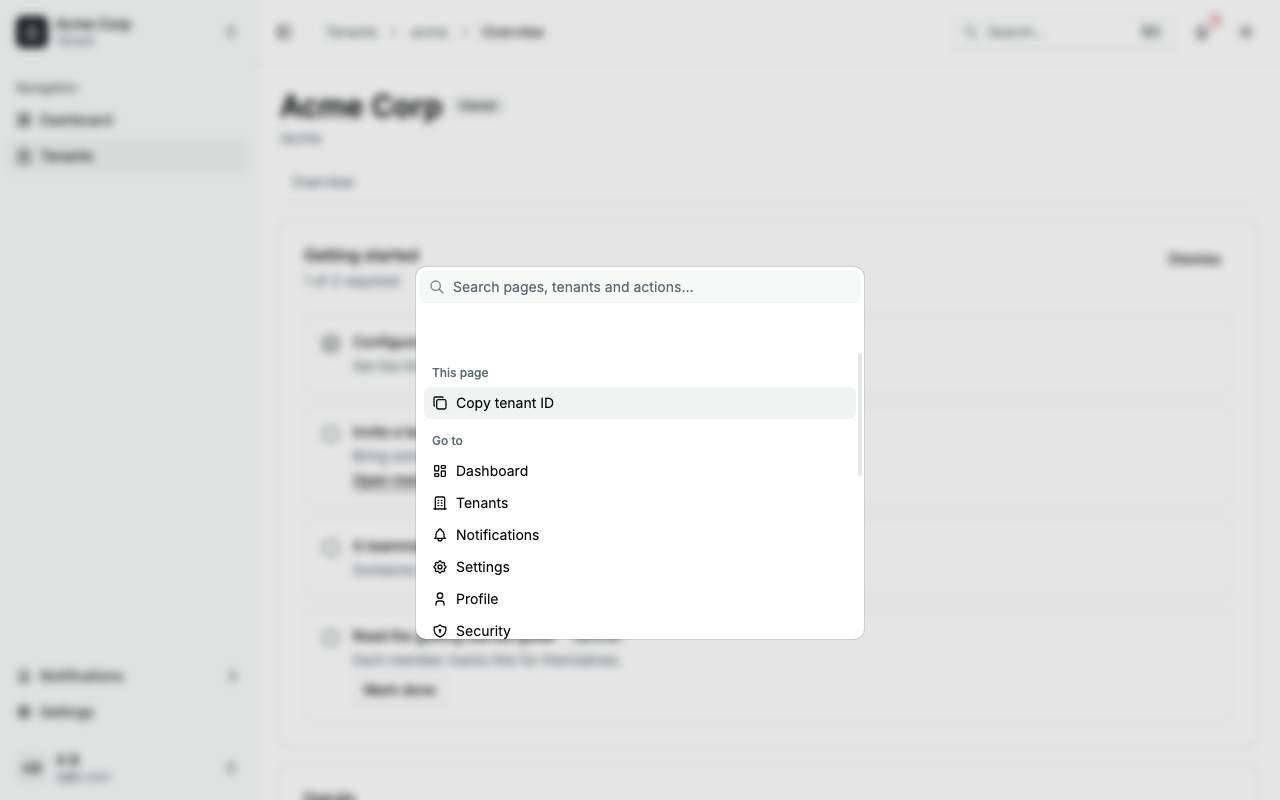
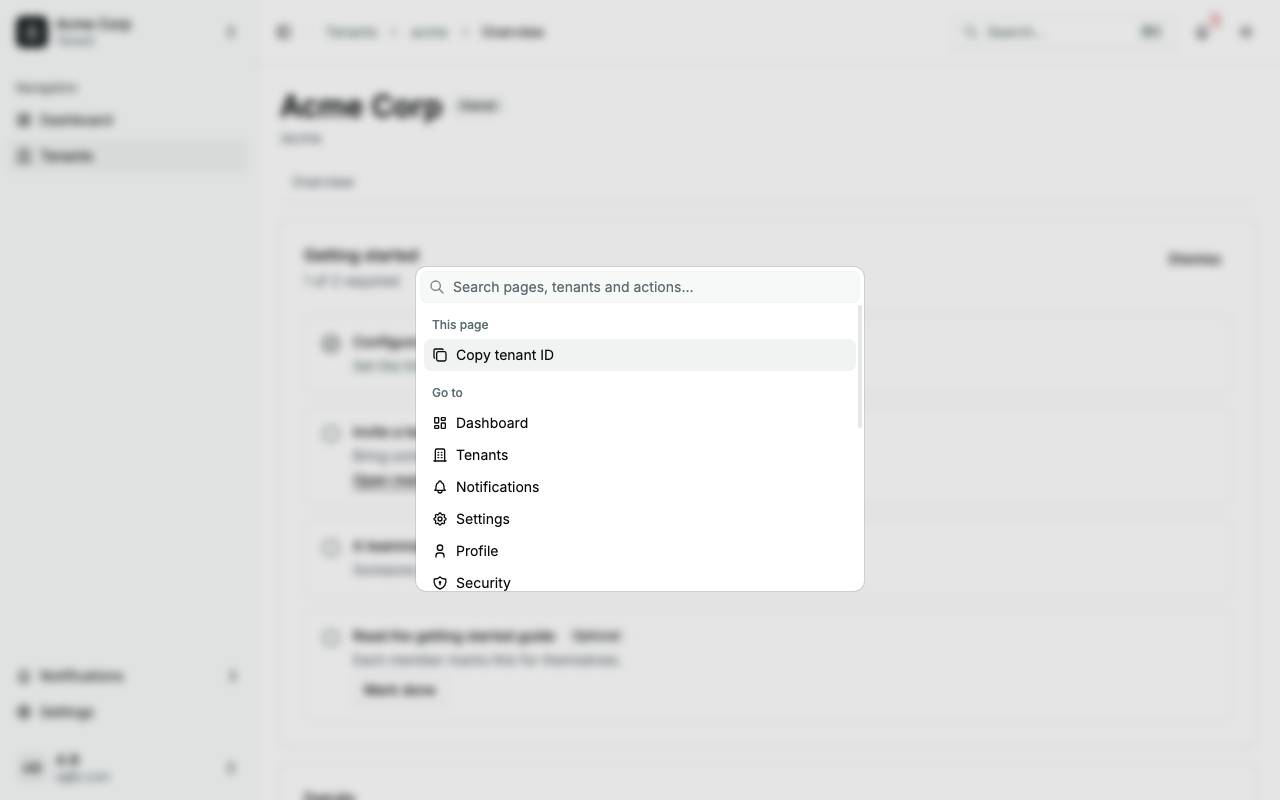
fix(palette): drop the blank band between the search input and the list
The dialog content is a gap-6 grid and the palette's root renders no element,
so the input, the empty status line and the list each took a grid row: 48 px
of blank space above the first group. The shell's dialog now has no gap.

Claude-Session: https://claude.ai/code/session_01SrFBuNFEo3j8w4hvoUStHW

Changed region(s): [[0.3125, 0.4062, 0.6875, 0.8125]]

diff --git a/e2e/fixtures/palette.test.ts b/e2e/fixtures/palette.test.ts
@@ -109,6 +109,25 @@ test('an overflowing palette list stays keyboard-scrollable and axe-clean', asyn
   expect(results.passes).toContain('scrollable-region-focusable')
 })
 
+test('the first group sits right under the input, with no blank band', async ({ page }) => {
+  await page.goto('/e2e/harness/?path=/dashboard')
+  await expect(page.getByRole('heading', { level: 1 })).toBeVisible({
+    timeout: COLD_TRANSFORM_BUDGET_MS,
+  })
+
+  await page.keyboard.press('ControlOrMeta+k')
+  const palette = page.getByRole('dialog', { name: 'Command palette', exact: true })
+  await expect(palette.getByRole('option').first()).toBeVisible({
+    timeout: COLD_TRANSFORM_BUDGET_MS,
+  })
+  const input = await palette.getByRole('combobox').boundingBox()
+  const firstLabel = await palette.getByRole('listbox').getByRole('group').first().boundingBox()
+  expect(input).not.toBeNull()
+  expect(firstLabel).not.toBeNull()
+  // The dialog's grid gap once put 48 px between the input and the list, around an empty status line.
+  expect(firstLabel!.y - (input!.y + input!.height)).toBeLessThan(16)
+})
+
 test('shows the shortcut hint on the header button', async ({ page }) => {
   await page.goto('/e2e/harness/?path=/dashboard')
   await expect(page.getByRole('heading', { name: /^Welcome back,/ })).toBeVisible({

diff --git a/src/components/shared/command-palette/command-palette-shell.tsx b/src/components/shared/command-palette/command-palette-shell.tsx
@@ -168,6 +168,7 @@ export function CommandPaletteShell({
         run?.()
       }}
       description={description}
+      className="gap-0"
     >
       <Command
         open
